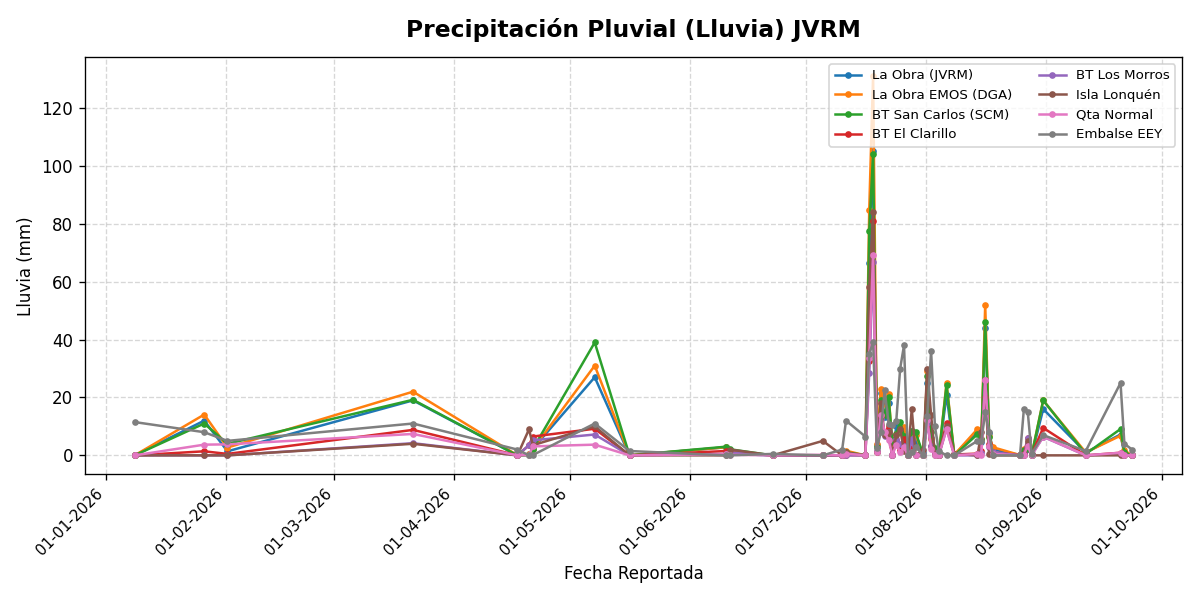
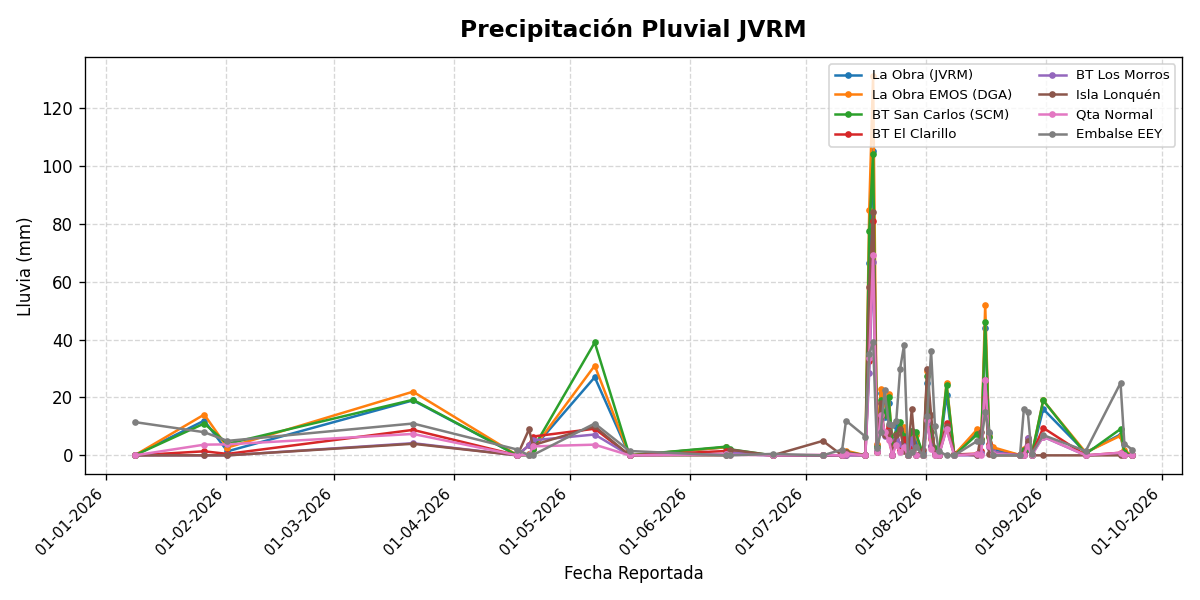
Actualización automática de caudales y gráficos JVRM

Changed region(s): [[0.3392, 0.03, 0.74, 0.09]]

diff --git a/README.md b/README.md
@@ -30,6 +30,12 @@ Visualización de parámetros reportados por la Junta de Vigilancia del Río Mai
 
 ---
 
+## Precipitación Pluvial Acumulada (mm)
+
+![Lluvia Acumulada JVRM](graficos/lluvia_acumulada.png)
+
+---
+
 ## Precipitación Nival - Altura de Nieve (cm)
 
 ![Nieve JVRM](graficos/nieve.png)
